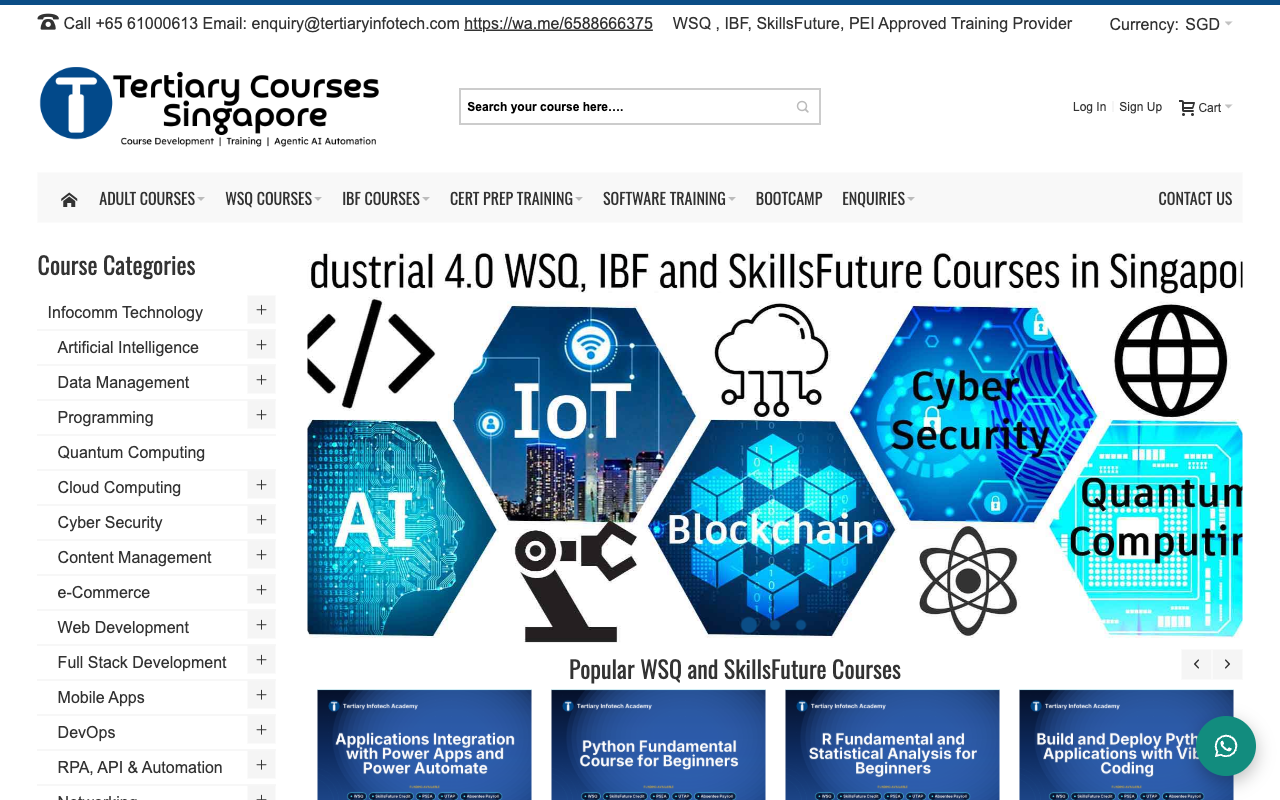
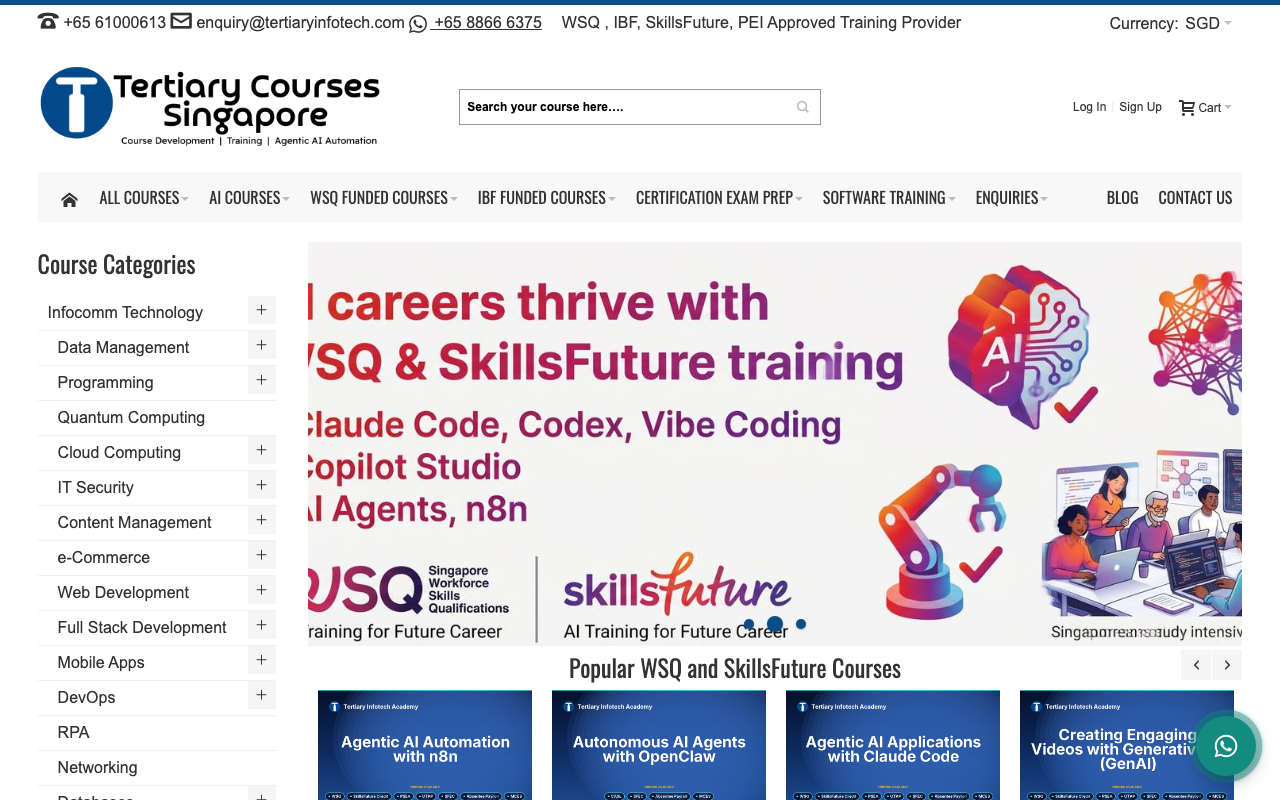
docs(readme): correct OpenMage version and refresh homepage screenshot
- Badge and Tech Stack table claimed OpenMage LTS v20.12.3; the vendored
  version is 20.12.0 (app/Mage.php getOpenMageVersionInfo, confirmed via
  Mage::getOpenMageVersionInfo() in the running container).
- screenshot.png was captured 2026-06-30 and no longer matched the site:
  the main nav has since been restructured (ALL COURSES / AI COURSES /
  WSQ FUNDED / IBF FUNDED / CERTIFICATION EXAM PREP + BLOG, replacing
  ADULT COURSES / WSQ COURSES / BOOTCAMP), and the hero banner and
  featured-course rail have changed. Recaptured at 1280x800.

Verified: every path, command and link referenced in the README resolves;
PHP 8.2 / MySQL 5.7 / Apache 2.4 / port 8080 badges match the containers.

diff --git a/README.md b/README.md
@@ -2,7 +2,7 @@
 
 # Tertiary Courses LMS (ai-mms)
 
-[![OpenMage](https://img.shields.io/badge/OpenMage-LTS%20v20.12.3-f46f25)](https://www.openmage.org/)
+[![OpenMage](https://img.shields.io/badge/OpenMage-LTS%20v20.12.0-f46f25)](https://www.openmage.org/)
 [![PHP](https://img.shields.io/badge/PHP-8.2-777BB4?logo=php&logoColor=white)](https://www.php.net/)
 [![MySQL](https://img.shields.io/badge/MySQL-5.7-4479A1?logo=mysql&logoColor=white)](https://www.mysql.com/)
 [![Apache](https://img.shields.io/badge/Apache-2.4-D22128?logo=apache&logoColor=white)](https://httpd.apache.org/)
@@ -76,7 +76,7 @@ This system runs as a **franchise model**:
 
 | Layer | Technology |
 |-------|------------|
-| **Platform** | OpenMage LTS v20.12.3 (Magento 1.x) |
+| **Platform** | OpenMage LTS v20.12.0 (Magento 1.x) |
 | **Language** | PHP 8.2 |
 | **Database** | MySQL 5.7 |
 | **Web Server** | Apache 2.4 |
